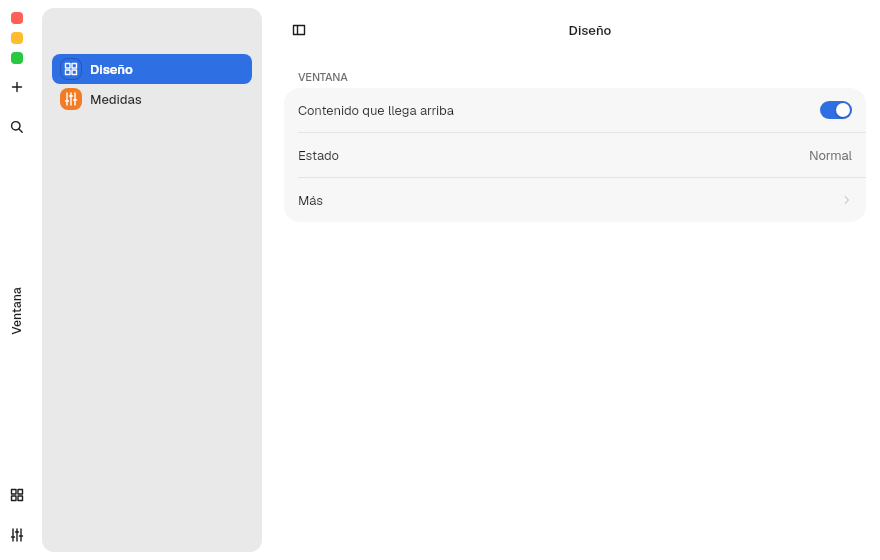
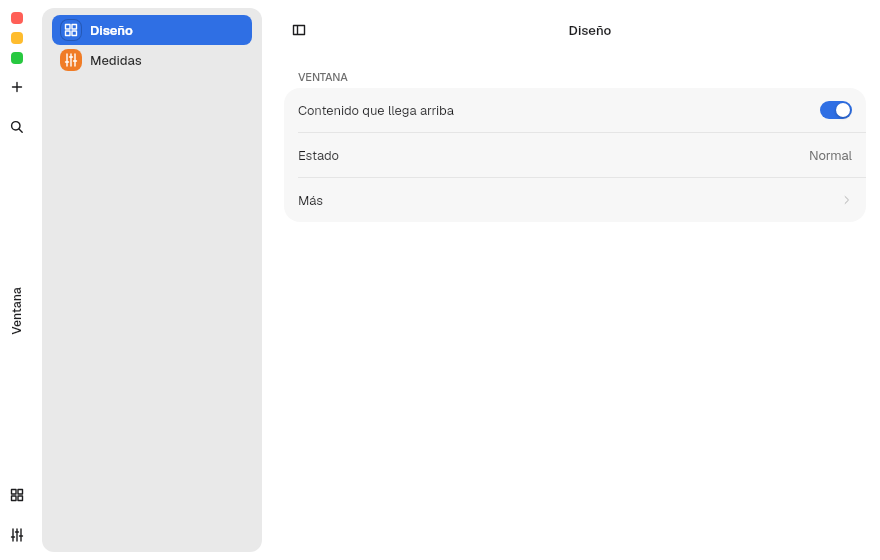
feat(kit): with the Rail the sidebar's first row rises to the titlebar row
The traffic lights leave the sidebar with the Rail, so its first row
(the search field in PreferencesWindow) slides up to the titlebar row,
centered with its buttons, from sidebar_bar_metrics and
TEXT_FIELD.height. The switch animates with DURATION_BASE through
chrome::use_switch_progress, now shared by the focus reveal and the
chrome reveal. Chapters 7 and 8 (es/en) and the Rail screenshots follow.

Claude-Session: https://claude.ai/code/session_01F89v1w3NBR5b9eab8vdVJm

Changed region(s): [[0.0614, 0.0, 0.3068, 0.2125]]

diff --git a/crates/barrier-kit/src/chrome.rs b/crates/barrier-kit/src/chrome.rs
@@ -91,6 +91,17 @@ impl ChromeStyle {
     }
 }
 
+pub(crate) fn use_switch_progress(on: State<bool>) -> f32 {
+    let reduced_motion = crate::theme::resolved().reduced_motion;
+    let animation = use_animation_transition(on, move |from: bool, to: bool| {
+        AnimNum::new(f32::from(u8::from(from)), f32::from(u8::from(to)))
+            .time(if reduced_motion { 0 } else { DURATION_BASE })
+            .ease(Ease::Out)
+            .function(Function::Cubic)
+    });
+    animation.get().value()
+}
+
 // ADR 0054: the overlaid titlebar slides and fades in with the compositor bar instead of popping in.
 pub(crate) fn use_focus_bar_reveal() {
     let controls = try_consume_root_context::<WindowControls>();
@@ -98,14 +109,7 @@ pub(crate) fn use_focus_bar_reveal() {
     let shown = controls
         .as_ref()
         .map_or(fallback, |controls| controls.focus_bar);
-    let reduced_motion = crate::theme::resolved().reduced_motion;
-    let animation = use_animation_transition(shown, move |from: bool, to: bool| {
-        AnimNum::new(f32::from(u8::from(from)), f32::from(u8::from(to)))
-            .time(if reduced_motion { 0 } else { DURATION_BASE })
-            .ease(Ease::Out)
-            .function(Function::Cubic)
-    });
-    let progress = animation.get().value();
+    let progress = use_switch_progress(shown);
     if let Some(controls) = controls {
         let mut state = controls.focus_bar_progress;
         state.set_if_modified(progress);
@@ -336,14 +340,7 @@ impl Component for WindowChrome {
         let mut items_state = chrome.rail_items;
         items_state.set_if_modified(self.rail_items.clone());
         let mut revealed = use_state(|| false);
-        let reduced_motion = crate::theme::resolved().reduced_motion;
-        let animation = use_animation_transition(revealed, move |from: bool, to: bool| {
-            AnimNum::new(f32::from(u8::from(from)), f32::from(u8::from(to)))
-                .time(if reduced_motion { 0 } else { DURATION_BASE })
-                .ease(Ease::Out)
-                .function(Function::Cubic)
-        });
-        let progress = animation.get().value();
+        let progress = use_switch_progress(revealed);
         let mut progress_state = chrome.progress;
         progress_state.set_if_modified(progress);
 

diff --git a/crates/barrier-kit/src/sidebar.rs b/crates/barrier-kit/src/sidebar.rs
@@ -9,7 +9,8 @@ use keyboard_types::{Key, NamedKey};
 use torin::prelude::{Alignment, Content, Direction, Gaps, Position, Size};
 use vow_appearance::{SidebarStyle, SidebarSurface};
 use vow_design::{
-    BACKDROP, DURATION_BASE, Rgba, SETTINGS, SIDEBAR, SidebarPalette, TEXT, TITLEBAR, TITLEBAR_RAIL,
+    BACKDROP, DURATION_BASE, Rgba, SETTINGS, SIDEBAR, SidebarPalette, TEXT, TEXT_FIELD, TITLEBAR,
+    TITLEBAR_RAIL,
 };
 
 use crate::ProbeExt;
@@ -255,6 +256,16 @@ impl Component for Sidebar {
                 resting_top + (revealed_top - resting_top) * progress
             }
         };
+        let chrome = crate::chrome::chrome_style();
+        let rail_layout = chrome.layout == TitlebarLayout::Rail;
+        let mut in_rail = use_state(|| rail_layout);
+        in_rail.set_if_modified(rail_layout);
+        let rail_progress = crate::chrome::use_switch_progress(in_rail);
+        let inset = if island { SIDEBAR.inset as f32 } else { 0.0 };
+        let (bar_height, bar_padding_top) = crate::titlebar::sidebar_bar_metrics();
+        // With the Rail the traffic lights leave the sidebar, so its first row rises to the titlebar row.
+        let row_top = ((bar_padding_top + bar_height - TEXT_FIELD.height) / 2.0 - inset).max(0.0);
+        let top_height = top_height + (row_top - top_height) * rail_progress;
         let padding_x = SIDEBAR.padding_x as f32;
         let radius = SIDEBAR.radius as f32;
 
@@ -262,16 +273,11 @@ impl Component for Sidebar {
             .map(|controls| (*controls.status.read(), controls.fixed))
             .unwrap_or_default();
         let drag = window_drag_handler(fixed);
-        let band_top = -top_height - if island { SIDEBAR.inset as f32 } else { 0.0 };
+        let band_top = -top_height - inset;
         let band_left = -(padding_x);
         let band_width = SIDEBAR.width as f32;
-        let band_height = if island {
-            top_height + SIDEBAR.inset as f32
-        } else {
-            top_height
-        };
+        let band_height = top_height + inset;
 
-        let chrome = crate::chrome::chrome_style();
         let lights_column = chrome.unified(true) && self.traffic_lights;
         let reserved = if lights_column {
             chrome.rail_width

diff --git a/docs/barrierkit/07-titlebars.en.md b/docs/barrierkit/07-titlebars.en.md
@@ -122,6 +122,22 @@ With any item, the rail widens to `TITLEBAR_RAIL.actions_width` (34). In
 |---|---|
 | ![Normal rail with items at the top and the bottom](assets/estados/rail-elementos.png) | ![Unified rail with items at the top and the bottom](assets/estados/rail-unificado-elementos.png) |
 
+### The sidebar with the `Rail`
+
+With the `Rail`, the traffic lights leave the sidebar and free its top. The
+`Sidebar` then raises its first row (the search field in `PreferencesWindow`) to
+the titlebar row, centered with its buttons. The measure comes from
+`sidebar_bar_metrics()` and `TEXT_FIELD.height`, so it holds for island and flat.
+
+When the layout switches from `Top` to `Rail`, or back, the row slides with
+`DURATION_BASE` and a cubic ease-out curve. With reduced motion, it jumps. In
+full screen it does not move down with the compositor bar, like the rest of the
+window with the `Rail`.
+
+| `Top`: the search field, below the traffic lights | `Rail`: the search field, in the titlebar row |
+|---|---|
+| ![Sidebar with Top](assets/estados/barra-lateral-top.png) | ![Sidebar with Rail](assets/estados/barra-lateral-rail.png) |
+
 ### `ChromeStyle` fields
 
 | Field | Values | Effect |

diff --git a/docs/barrierkit/07-titlebars.md b/docs/barrierkit/07-titlebars.md
@@ -124,6 +124,23 @@ sitios.
 |---|---|
 | ![Rail normal con elementos arriba y abajo](assets/estados/rail-elementos.png) | ![Rail unificado con elementos arriba y abajo](assets/estados/rail-unificado-elementos.png) |
 
+### La barra lateral con el `Rail`
+
+Con el `Rail`, los semáforos salen de la barra lateral y dejan libre su parte de
+arriba. La `Sidebar` sube entonces su primera fila (en `PreferencesWindow`, el
+buscador) hasta la fila de la titlebar, centrada con sus botones. La medida sale
+de `sidebar_bar_metrics()` y de `TEXT_FIELD.height`, así que vale en isla y en
+plana.
+
+Al cambiar de `Top` a `Rail`, o al revés, la fila se desliza con
+`DURATION_BASE` y una curva cúbica de salida. Con movimiento reducido, salta.
+En pantalla completa no baja con la barra del compositor, como el resto de la
+ventana con el `Rail`.
+
+| `Top`: el buscador, bajo los semáforos | `Rail`: el buscador, en la fila de la titlebar |
+|---|---|
+| ![Barra lateral con Top](assets/estados/barra-lateral-top.png) | ![Barra lateral con Rail](assets/estados/barra-lateral-rail.png) |
+
 ### Campos de `ChromeStyle`
 
 | Campo | Valores | Efecto |

diff --git a/docs/barrierkit/08-barra-lateral.md b/docs/barrierkit/08-barra-lateral.md
@@ -35,7 +35,7 @@ Sidebar::new()
 | `SidebarItem::new(texto)` | `.symbol(Symbol, tinte)` o `.icon(svg)`, `.badge(n)`, `.selected(bool)`, `.emphasized(bool)`, `.on_select(..)` |
 | `SidebarSection::new(título)` | `.expanded(bool)`, `.on_toggle(..)`: se pliega con una animación de `DURATION_BASE` |
 | `SidebarAccount::new(iniciales, nombre, detalle)` | `.selected(bool)`, `.on_select(..)` |
-| `Sidebar` | `.traffic_lights(true)` pone los semáforos dentro; `.backdrop(SidebarBackdrop::Tinted)` la tiñe sobre un fondo tintado |
+| `Sidebar` | `.traffic_lights(true)` pone los semáforos dentro; `.backdrop(SidebarBackdrop::Tinted)` la tiñe sobre un fondo tintado. Con el `Rail`, su primera fila sube a la fila de la titlebar (capítulo [7](07-titlebars.md#la-barra-lateral-con-el-rail)) |
 
 ![Fila de cuenta seleccionada](assets/componentes/sidebar-account-light.png)
 

diff --git a/docs/barrierkit/08-barra-lateral.en.md b/docs/barrierkit/08-barra-lateral.en.md
@@ -35,7 +35,7 @@ Sidebar::new()
 | `SidebarItem::new(texto)` | `.symbol(Symbol, tinte)` or `.icon(svg)`, `.badge(n)`, `.selected(bool)`, `.emphasized(bool)`, `.on_select(..)` |
 | `SidebarSection::new(título)` | `.expanded(bool)`, `.on_toggle(..)`: it collapses with a `DURATION_BASE` animation |
 | `SidebarAccount::new(iniciales, nombre, detalle)` | `.selected(bool)`, `.on_select(..)` |
-| `Sidebar` | `.traffic_lights(true)` puts the traffic lights inside; `.backdrop(SidebarBackdrop::Tinted)` tints it over a tinted backdrop |
+| `Sidebar` | `.traffic_lights(true)` puts the traffic lights inside; `.backdrop(SidebarBackdrop::Tinted)` tints it over a tinted backdrop. With the `Rail`, its first row rises to the titlebar row (chapter [7](07-titlebars.en.md#the-sidebar-with-the-rail)) |
 
 ![Selected account row](assets/componentes/sidebar-account-light.png)
 
